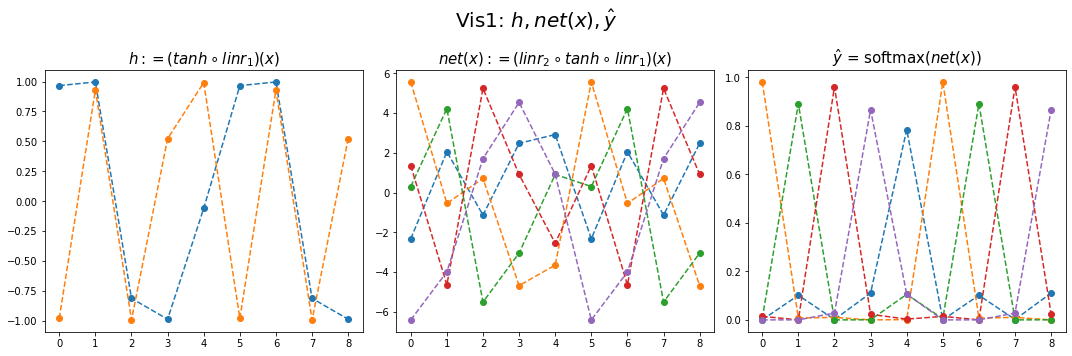
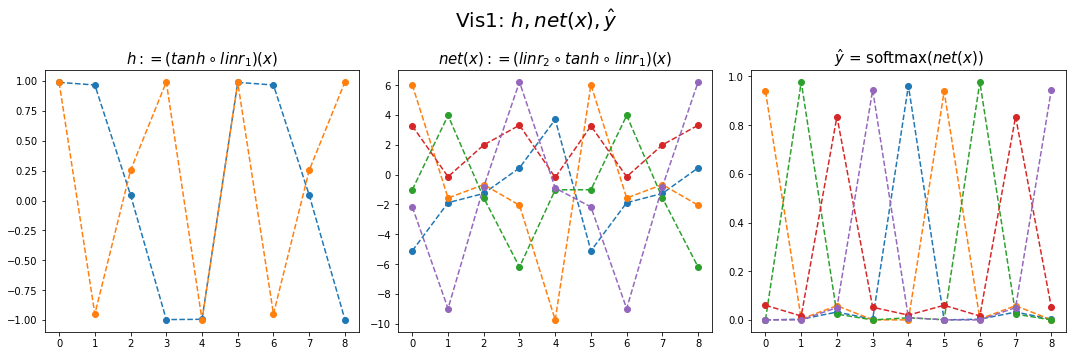
Built site for gh-pages

diff --git a/posts/RNN/2023-02-25-rnn2.html b/posts/RNN/2023-02-25-rnn2.html
@@ -1103,16 +1103,16 @@ code span.wa { color: #60a0b0; font-weight: bold; font-style: italic; } /* Warni
 <span id="cb83-5"><a href="#cb83-5"></a>)</span></code><button title="Copy to Clipboard" class="code-copy-button"><i class="bi"></i></button></pre></div>
 <section id="도전1-은닉노드-2개" class="level2">
 <h2 class="anchored" data-anchor-id="도전1-은닉노드-2개">도전1 (은닉노드 2개)</h2>
-<div class="cell" data-execution_count="145">
+<div class="cell" data-execution_count="157">
 <div class="sourceCode cell-code" id="cb84"><pre class="sourceCode numberSource python number-lines code-with-copy"><code class="sourceCode python"><span id="cb84-1"><a href="#cb84-1"></a>mapping <span class="op">=</span> {<span class="st">'a'</span>:<span class="dv">0</span>,<span class="st">'b'</span>:<span class="dv">1</span>,<span class="st">'c'</span>:<span class="dv">2</span>,<span class="st">'d'</span>:<span class="dv">3</span>,<span class="st">'e'</span>:<span class="dv">4</span>}</span>
 <span id="cb84-2"><a href="#cb84-2"></a>x <span class="op">=</span> torch.tensor(f(txt_x,mapping))</span>
 <span id="cb84-3"><a href="#cb84-3"></a>y <span class="op">=</span> torch.tensor(f(txt_y,mapping))</span>
 <span id="cb84-4"><a href="#cb84-4"></a>x[:<span class="dv">5</span>],y[:<span class="dv">5</span>]</span></code><button title="Copy to Clipboard" class="code-copy-button"><i class="bi"></i></button></pre></div>
-<div class="cell-output cell-output-display" data-execution_count="145">
+<div class="cell-output cell-output-display" data-execution_count="157">
 <pre><code>(tensor([0, 1, 2, 3, 4]), tensor([1, 2, 3, 4, 0]))</code></pre>
 </div>
 </div>
-<div class="cell" data-execution_count="146">
+<div class="cell" data-execution_count="158">
 <div class="sourceCode cell-code" id="cb86"><pre class="sourceCode numberSource python number-lines code-with-copy"><code class="sourceCode python"><span id="cb86-1"><a href="#cb86-1"></a>net <span class="op">=</span> torch.nn.Sequential(</span>
 <span id="cb86-2"><a href="#cb86-2"></a>    torch.nn.Embedding(num_embeddings<span class="op">=</span><span class="dv">5</span>,embedding_dim<span class="op">=</span><span class="dv">2</span>),</span>
 <span id="cb86-3"><a href="#cb86-3"></a>    torch.nn.Tanh(),</span>
@@ -1121,7 +1121,7 @@ code span.wa { color: #60a0b0; font-weight: bold; font-style: italic; } /* Warni
 <span id="cb86-6"><a href="#cb86-6"></a>loss_fn <span class="op">=</span> torch.nn.CrossEntropyLoss()</span>
 <span id="cb86-7"><a href="#cb86-7"></a>optimizr <span class="op">=</span> torch.optim.Adam(net.parameters())</span></code><button title="Copy to Clipboard" class="code-copy-button"><i class="bi"></i></button></pre></div>
 </div>
-<div class="cell" data-execution_count="147">
+<div class="cell" data-execution_count="159">
 <div class="sourceCode cell-code" id="cb87"><pre class="sourceCode numberSource python number-lines code-with-copy"><code class="sourceCode python"><span id="cb87-1"><a href="#cb87-1"></a><span class="cf">for</span> epoc <span class="kw">in</span> <span class="bu">range</span>(<span class="dv">5000</span>):</span>
 <span id="cb87-2"><a href="#cb87-2"></a>    <span class="co">## 1</span></span>
 <span id="cb87-3"><a href="#cb87-3"></a>    yhat <span class="op">=</span> net(x)</span>
@@ -1135,11 +1135,11 @@ code span.wa { color: #60a0b0; font-weight: bold; font-style: italic; } /* Warni
 </div>
 <section id="결과시각화1-3" class="level3">
 <h3 class="anchored" data-anchor-id="결과시각화1-3"><code>-</code> 결과시각화1</h3>
-<div class="cell" data-execution_count="148">
+<div class="cell" data-execution_count="160">
 <div class="sourceCode cell-code" id="cb88"><pre class="sourceCode numberSource python number-lines code-with-copy"><code class="sourceCode python"><span id="cb88-1"><a href="#cb88-1"></a>hidden <span class="op">=</span> net[:<span class="op">-</span><span class="dv">1</span>](x).data</span>
 <span id="cb88-2"><a href="#cb88-2"></a>yhat <span class="op">=</span> soft(net(x)).data</span></code><button title="Copy to Clipboard" class="code-copy-button"><i class="bi"></i></button></pre></div>
 </div>
-<div class="cell" data-execution_count="149">
+<div class="cell" data-execution_count="161">
 <div class="sourceCode cell-code" id="cb89"><pre class="sourceCode numberSource python number-lines code-with-copy"><code class="sourceCode python"><span id="cb89-1"><a href="#cb89-1"></a>fig,ax <span class="op">=</span> plt.subplots(<span class="dv">1</span>,<span class="dv">3</span>,figsize<span class="op">=</span>(<span class="dv">15</span>,<span class="dv">5</span>))</span>
 <span id="cb89-2"><a href="#cb89-2"></a>ax[<span class="dv">0</span>].plot(hidden[:<span class="dv">9</span>],<span class="st">'--o'</span>)<span class="op">;</span> ax[<span class="dv">0</span>].set_title(<span class="st">'$h:=(tanh \circ linr_1)(x)$'</span>,size<span class="op">=</span><span class="dv">15</span>)</span>
 <span id="cb89-3"><a href="#cb89-3"></a>ax[<span class="dv">1</span>].plot(net(x).data[:<span class="dv">9</span>],<span class="st">'--o'</span>)<span class="op">;</span> ax[<span class="dv">1</span>].set_title(<span class="st">'$net(x):=(linr_2 \circ tanh \circ linr_1)(x)$'</span>,size<span class="op">=</span><span class="dv">15</span>)</span>
@@ -1153,21 +1153,21 @@ code span.wa { color: #60a0b0; font-weight: bold; font-style: italic; } /* Warni
 </section>
 <section id="결과시각화2-4" class="level3">
 <h3 class="anchored" data-anchor-id="결과시각화2-4"><code>-</code> 결과시각화2</h3>
-<div class="cell" data-execution_count="139">
+<div class="cell" data-execution_count="162">
 <div class="sourceCode cell-code" id="cb90"><pre class="sourceCode numberSource python number-lines code-with-copy"><code class="sourceCode python"><span id="cb90-1"><a href="#cb90-1"></a>combined  <span class="op">=</span> torch.concat([hidden,net(x).data,yhat],axis<span class="op">=</span><span class="dv">1</span>)</span>
 <span id="cb90-2"><a href="#cb90-2"></a>combined.shape</span></code><button title="Copy to Clipboard" class="code-copy-button"><i class="bi"></i></button></pre></div>
-<div class="cell-output cell-output-display" data-execution_count="139">
-<pre><code>torch.Size([599, 12])</code></pre>
+<div class="cell-output cell-output-display" data-execution_count="162">
+<pre><code>torch.Size([499, 12])</code></pre>
 </div>
 </div>
-<div class="cell" data-execution_count="140">
+<div class="cell" data-execution_count="163">
 <div class="sourceCode cell-code" id="cb92"><pre class="sourceCode numberSource python number-lines code-with-copy"><code class="sourceCode python"><span id="cb92-1"><a href="#cb92-1"></a>plt.matshow(combined[:<span class="dv">15</span>],vmin<span class="op">=-</span><span class="dv">7</span>,vmax<span class="op">=</span><span class="dv">7</span>,cmap<span class="op">=</span><span class="st">'bwr'</span>)</span>
 <span id="cb92-2"><a href="#cb92-2"></a>plt.xticks(<span class="bu">range</span>(<span class="dv">12</span>), labels<span class="op">=</span>[<span class="vs">r'$h$'</span>,<span class="vs">r'$h$'</span>,<span class="vs">r'$y=a?$'</span>,<span class="vs">r'$y=b?$'</span>,<span class="vs">r'$y=c?$'</span>,<span class="vs">r'$y=d?$'</span>, <span class="vs">r'$y=e?$'</span>,<span class="vs">r'$P(y=a)$'</span>,<span class="vs">r'$P(y=b)$'</span>,<span class="vs">r'$P(y=c)$'</span>,<span class="vs">r'$P(y=d)$'</span>,<span class="vs">r'$P(y=e)$'</span>],size<span class="op">=</span><span class="dv">14</span>)</span>
 <span id="cb92-3"><a href="#cb92-3"></a>plt.colorbar()</span>
 <span id="cb92-4"><a href="#cb92-4"></a>plt.gcf().set_figwidth(<span class="dv">15</span>)</span>
 <span id="cb92-5"><a href="#cb92-5"></a>plt.gcf().set_figheight(<span class="dv">15</span>)</span>
 <span id="cb92-6"><a href="#cb92-6"></a>plt.title(<span class="vs">r"Vis2: $[h | net(x) | \hat</span><span class="sc">{y}</span><span class="vs">]$"</span>,size<span class="op">=</span><span class="dv">25</span>)</span></code><button title="Copy to Clipboard" class="code-copy-button"><i class="bi"></i></button></pre></div>
-<div class="cell-output cell-output-display" data-execution_count="140">
+<div class="cell-output cell-output-display" data-execution_count="163">
 <pre><code>Text(0.5, 1.0, 'Vis2: $[h | net(x) | \\hat{y}]$')</code></pre>
 </div>
 <div class="cell-output cell-output-display">
@@ -1181,47 +1181,80 @@ code span.wa { color: #60a0b0; font-weight: bold; font-style: italic; } /* Warni
 </section>
 <section id="도전2-은닉노드-3개" class="level2">
 <h2 class="anchored" data-anchor-id="도전2-은닉노드-3개">도전2 ( 은닉노드 3개)</h2>
-<div class="cell" data-execution_count="141">
-<div class="sourceCode cell-code" id="cb94"><pre class="sourceCode numberSource python number-lines code-with-copy"><code class="sourceCode python"><span id="cb94-1"><a href="#cb94-1"></a>net <span class="op">=</span> torch.nn.Sequential(</span>
-<span id="cb94-2"><a href="#cb94-2"></a>    torch.nn.Embedding(num_embeddings<span class="op">=</span><span class="dv">5</span>,embedding_dim<span class="op">=</span><span class="dv">3</span>),</span>
-<span id="cb94-3"><a href="#cb94-3"></a>    torch.nn.Tanh(),</span>
-<span id="cb94-4"><a href="#cb94-4"></a>    torch.nn.Linear(in_features<span class="op">=</span><span class="dv">3</span>,out_features<span class="op">=</span><span class="dv">5</span>)</span>
-<span id="cb94-5"><a href="#cb94-5"></a>)</span>
-<span id="cb94-6"><a href="#cb94-6"></a>loss_fn <span class="op">=</span> torch.nn.CrossEntropyLoss()</span>
-<span id="cb94-7"><a href="#cb94-7"></a>optimizr <span class="op">=</span> torch.optim.Adam(net.parameters())</span></code><button title="Copy to Clipboard" class="code-copy-button"><i class="bi"></i></button></pre></div>
+<div class="cell" data-execution_count="164">
+<div class="sourceCode cell-code" id="cb94"><pre class="sourceCode numberSource python number-lines code-with-copy"><code class="sourceCode python"><span id="cb94-1"><a href="#cb94-1"></a>mapping <span class="op">=</span> {<span class="st">'a'</span>:<span class="dv">0</span>,<span class="st">'b'</span>:<span class="dv">1</span>,<span class="st">'c'</span>:<span class="dv">2</span>,<span class="st">'d'</span>:<span class="dv">3</span>,<span class="st">'e'</span>:<span class="dv">4</span>}</span>
+<span id="cb94-2"><a href="#cb94-2"></a>x <span class="op">=</span> torch.tensor(f(txt_x,mapping))</span>
+<span id="cb94-3"><a href="#cb94-3"></a>y <span class="op">=</span> torch.tensor(f(txt_y,mapping))</span>
+<span id="cb94-4"><a href="#cb94-4"></a>x[:<span class="dv">5</span>],y[:<span class="dv">5</span>]</span></code><button title="Copy to Clipboard" class="code-copy-button"><i class="bi"></i></button></pre></div>
+<div class="cell-output cell-output-display" data-execution_count="164">
+<pre><code>(tensor([0, 1, 2, 3, 4]), tensor([1, 2, 3, 4, 0]))</code></pre>
 </div>
-<div class="cell" data-execution_count="142">
-<div class="sourceCode cell-code" id="cb95"><pre class="sourceCode numberSource python number-lines code-with-copy"><code class="sourceCode python"><span id="cb95-1"><a href="#cb95-1"></a><span class="cf">for</span> epoc <span class="kw">in</span> <span class="bu">range</span>(<span class="dv">5000</span>):</span>
-<span id="cb95-2"><a href="#cb95-2"></a>    <span class="co">## 1</span></span>
-<span id="cb95-3"><a href="#cb95-3"></a>    yhat <span class="op">=</span> net(x)</span>
-<span id="cb95-4"><a href="#cb95-4"></a>    <span class="co">## 2</span></span>
-<span id="cb95-5"><a href="#cb95-5"></a>    loss <span class="op">=</span> loss_fn(yhat,y)</span>
-<span id="cb95-6"><a href="#cb95-6"></a>    <span class="co">## 3</span></span>
-<span id="cb95-7"><a href="#cb95-7"></a>    loss.backward()</span>
-<span id="cb95-8"><a href="#cb95-8"></a>    <span class="co">## 4</span></span>
-<span id="cb95-9"><a href="#cb95-9"></a>    optimizr.step()</span>
-<span id="cb95-10"><a href="#cb95-10"></a>    optimizr.zero_grad()</span></code><button title="Copy to Clipboard" class="code-copy-button"><i class="bi"></i></button></pre></div>
+</div>
+<div class="cell" data-execution_count="165">
+<div class="sourceCode cell-code" id="cb96"><pre class="sourceCode numberSource python number-lines code-with-copy"><code class="sourceCode python"><span id="cb96-1"><a href="#cb96-1"></a>net <span class="op">=</span> torch.nn.Sequential(</span>
+<span id="cb96-2"><a href="#cb96-2"></a>    torch.nn.Embedding(num_embeddings<span class="op">=</span><span class="dv">5</span>,embedding_dim<span class="op">=</span><span class="dv">3</span>),</span>
+<span id="cb96-3"><a href="#cb96-3"></a>    torch.nn.Tanh(),</span>
+<span id="cb96-4"><a href="#cb96-4"></a>    torch.nn.Linear(in_features<span class="op">=</span><span class="dv">3</span>,out_features<span class="op">=</span><span class="dv">5</span>)</span>
+<span id="cb96-5"><a href="#cb96-5"></a>)</span>
+<span id="cb96-6"><a href="#cb96-6"></a>loss_fn <span class="op">=</span> torch.nn.CrossEntropyLoss()</span>
+<span id="cb96-7"><a href="#cb96-7"></a>optimizr <span class="op">=</span> torch.optim.Adam(net.parameters())</span></code><button title="Copy to Clipboard" class="code-copy-button"><i class="bi"></i></button></pre></div>
+</div>
+<div class="cell" data-execution_count="166">
+<div class="sourceCode cell-code" id="cb97"><pre class="sourceCode numberSource python number-lines code-with-copy"><code class="sourceCode python"><span id="cb97-1"><a href="#cb97-1"></a><span class="cf">for</span> epoc <span class="kw">in</span> <span class="bu">range</span>(<span class="dv">5000</span>):</span>
+<span id="cb97-2"><a href="#cb97-2"></a>    <span class="co">## 1</span></span>
+<span id="cb97-3"><a href="#cb97-3"></a>    yhat <span class="op">=</span> net(x)</span>
+<span id="cb97-4"><a href="#cb97-4"></a>    <span class="co">## 2</span></span>
+<span id="cb97-5"><a href="#cb97-5"></a>    loss <span class="op">=</span> loss_fn(yhat,y)</span>
+<span id="cb97-6"><a href="#cb97-6"></a>    <span class="co">## 3</span></span>
+<span id="cb97-7"><a href="#cb97-7"></a>    loss.backward()</span>
+<span id="cb97-8"><a href="#cb97-8"></a>    <span class="co">## 4</span></span>
+<span id="cb97-9"><a href="#cb97-9"></a>    optimizr.step()</span>
+<span id="cb97-10"><a href="#cb97-10"></a>    optimizr.zero_grad()</span></code><button title="Copy to Clipboard" class="code-copy-button"><i class="bi"></i></button></pre></div>
 </div>
 <section id="결과시각화1-4" class="level3">
 <h3 class="anchored" data-anchor-id="결과시각화1-4"><code>-</code> 결과시각화1</h3>
-<div class="cell" data-execution_count="143">
-<div class="sourceCode cell-code" id="cb96"><pre class="sourceCode numberSource python number-lines code-with-copy"><code class="sourceCode python"><span id="cb96-1"><a href="#cb96-1"></a>hidden <span class="op">=</span> net[:<span class="op">-</span><span class="dv">1</span>](x).data</span>
-<span id="cb96-2"><a href="#cb96-2"></a>yhat <span class="op">=</span> soft(net(x)).data</span></code><button title="Copy to Clipboard" class="code-copy-button"><i class="bi"></i></button></pre></div>
+<div class="cell" data-execution_count="167">
+<div class="sourceCode cell-code" id="cb98"><pre class="sourceCode numberSource python number-lines code-with-copy"><code class="sourceCode python"><span id="cb98-1"><a href="#cb98-1"></a>hidden <span class="op">=</span> net[:<span class="op">-</span><span class="dv">1</span>](x).data</span>
+<span id="cb98-2"><a href="#cb98-2"></a>yhat <span class="op">=</span> soft(net(x)).data</span></code><button title="Copy to Clipboard" class="code-copy-button"><i class="bi"></i></button></pre></div>
 </div>
-<div class="cell" data-execution_count="144">
-<div class="sourceCode cell-code" id="cb97"><pre class="sourceCode numberSource python number-lines code-with-copy"><code class="sourceCode python"><span id="cb97-1"><a href="#cb97-1"></a>fig,ax <span class="op">=</span> plt.subplots(<span class="dv">1</span>,<span class="dv">3</span>,figsize<span class="op">=</span>(<span class="dv">15</span>,<span class="dv">5</span>))</span>
-<span id="cb97-2"><a href="#cb97-2"></a>ax[<span class="dv">0</span>].plot(hidden[:<span class="dv">9</span>],<span class="st">'--o'</span>)<span class="op">;</span> ax[<span class="dv">0</span>].set_title(<span class="st">'$h:=(tanh \circ linr_1)(x)$'</span>,size<span class="op">=</span><span class="dv">15</span>)</span>
-<span id="cb97-3"><a href="#cb97-3"></a>ax[<span class="dv">1</span>].plot(net(x).data[:<span class="dv">9</span>],<span class="st">'--o'</span>)<span class="op">;</span> ax[<span class="dv">1</span>].set_title(<span class="st">'$net(x):=(linr_2 \circ tanh \circ linr_1)(x)$'</span>,size<span class="op">=</span><span class="dv">15</span>)</span>
-<span id="cb97-4"><a href="#cb97-4"></a>ax[<span class="dv">2</span>].plot(yhat[:<span class="dv">9</span>],<span class="st">'--o'</span>)<span class="op">;</span> ax[<span class="dv">2</span>].set_title(<span class="st">'$\hat</span><span class="sc">{y}</span><span class="st">$ = softmax$(net(x))$'</span>,size<span class="op">=</span><span class="dv">15</span>)<span class="op">;</span></span>
-<span id="cb97-5"><a href="#cb97-5"></a>fig.suptitle(<span class="vs">r"Vis1: $h,net(x),\hat</span><span class="sc">{y}</span><span class="vs">$"</span>,size<span class="op">=</span><span class="dv">20</span>)</span>
-<span id="cb97-6"><a href="#cb97-6"></a>plt.tight_layout()</span></code><button title="Copy to Clipboard" class="code-copy-button"><i class="bi"></i></button></pre></div>
+<div class="cell" data-execution_count="168">
+<div class="sourceCode cell-code" id="cb99"><pre class="sourceCode numberSource python number-lines code-with-copy"><code class="sourceCode python"><span id="cb99-1"><a href="#cb99-1"></a>fig,ax <span class="op">=</span> plt.subplots(<span class="dv">1</span>,<span class="dv">3</span>,figsize<span class="op">=</span>(<span class="dv">15</span>,<span class="dv">5</span>))</span>
+<span id="cb99-2"><a href="#cb99-2"></a>ax[<span class="dv">0</span>].plot(hidden[:<span class="dv">9</span>],<span class="st">'--o'</span>)<span class="op">;</span> ax[<span class="dv">0</span>].set_title(<span class="st">'$h:=(tanh \circ linr_1)(x)$'</span>,size<span class="op">=</span><span class="dv">15</span>)</span>
+<span id="cb99-3"><a href="#cb99-3"></a>ax[<span class="dv">1</span>].plot(net(x).data[:<span class="dv">9</span>],<span class="st">'--o'</span>)<span class="op">;</span> ax[<span class="dv">1</span>].set_title(<span class="st">'$net(x):=(linr_2 \circ tanh \circ linr_1)(x)$'</span>,size<span class="op">=</span><span class="dv">15</span>)</span>
+<span id="cb99-4"><a href="#cb99-4"></a>ax[<span class="dv">2</span>].plot(yhat[:<span class="dv">9</span>],<span class="st">'--o'</span>)<span class="op">;</span> ax[<span class="dv">2</span>].set_title(<span class="st">'$\hat</span><span class="sc">{y}</span><span class="st">$ = softmax$(net(x))$'</span>,size<span class="op">=</span><span class="dv">15</span>)<span class="op">;</span></span>
+<span id="cb99-5"><a href="#cb99-5"></a>fig.suptitle(<span class="vs">r"Vis1: $h,net(x),\hat</span><span class="sc">{y}</span><span class="vs">$"</span>,size<span class="op">=</span><span class="dv">20</span>)</span>
+<span id="cb99-6"><a href="#cb99-6"></a>plt.tight_layout()</span></code><button title="Copy to Clipboard" class="code-copy-button"><i class="bi"></i></button></pre></div>
 <div class="cell-output cell-output-display">
-<p><img src="2023-02-25-rnn2_files/figure-html/cell-66-output-1.png" class="img-fluid"></p>
+<p><img src="2023-02-25-rnn2_files/figure-html/cell-67-output-1.png" class="img-fluid"></p>
 </div>
 </div>
 </section>
 <section id="결과시각화2-5" class="level3">
 <h3 class="anchored" data-anchor-id="결과시각화2-5"><code>-</code> 결과시각화2</h3>
+<div class="cell" data-execution_count="169">
+<div class="sourceCode cell-code" id="cb100"><pre class="sourceCode numberSource python number-lines code-with-copy"><code class="sourceCode python"><span id="cb100-1"><a href="#cb100-1"></a>combined  <span class="op">=</span> torch.concat([hidden,net(x).data,yhat],axis<span class="op">=</span><span class="dv">1</span>)</span>
+<span id="cb100-2"><a href="#cb100-2"></a>combined.shape</span></code><button title="Copy to Clipboard" class="code-copy-button"><i class="bi"></i></button></pre></div>
+<div class="cell-output cell-output-display" data-execution_count="169">
+<pre><code>torch.Size([499, 13])</code></pre>
+</div>
+</div>
+<div class="cell" data-execution_count="170">
+<div class="sourceCode cell-code" id="cb102"><pre class="sourceCode numberSource python number-lines code-with-copy"><code class="sourceCode python"><span id="cb102-1"><a href="#cb102-1"></a>plt.matshow(combined[:<span class="dv">15</span>],vmin<span class="op">=-</span><span class="dv">5</span>,vmax<span class="op">=</span><span class="dv">5</span>,cmap<span class="op">=</span><span class="st">'bwr'</span>)</span>
+<span id="cb102-2"><a href="#cb102-2"></a>plt.xticks(<span class="bu">range</span>(<span class="dv">13</span>), labels<span class="op">=</span>[<span class="vs">r'$h$'</span>,<span class="vs">r'$h$'</span>,<span class="vs">r'$h$'</span>,</span>
+<span id="cb102-3"><a href="#cb102-3"></a>                              <span class="vs">r'$y=A?$'</span>,<span class="vs">r'$y=b?$'</span>,<span class="vs">r'$y=c?$'</span>,<span class="vs">r'$y=d?$'</span>,<span class="vs">r'$y=e?$'</span>,</span>
+<span id="cb102-4"><a href="#cb102-4"></a>                              <span class="vs">r'$P(y=A)$'</span>,<span class="vs">r'$P(y=b)$'</span>,<span class="vs">r'$P(y=c)$'</span>,<span class="vs">r'$P(y=d)$'</span>,<span class="vs">r'$P(y=e)$'</span>],size<span class="op">=</span><span class="dv">13</span>)</span>
+<span id="cb102-5"><a href="#cb102-5"></a>plt.colorbar()</span>
+<span id="cb102-6"><a href="#cb102-6"></a>plt.gcf().set_figwidth(<span class="dv">15</span>)</span>
+<span id="cb102-7"><a href="#cb102-7"></a>plt.gcf().set_figheight(<span class="dv">15</span>)</span>
+<span id="cb102-8"><a href="#cb102-8"></a>plt.title(<span class="vs">r"Vis2: $[h | net(x) | \hat</span><span class="sc">{y}</span><span class="vs">]$"</span>,size<span class="op">=</span><span class="dv">25</span>)</span></code><button title="Copy to Clipboard" class="code-copy-button"><i class="bi"></i></button></pre></div>
+<div class="cell-output cell-output-display" data-execution_count="170">
+<pre><code>Text(0.5, 1.0, 'Vis2: $[h | net(x) | \\hat{y}]$')</code></pre>
+</div>
+<div class="cell-output cell-output-display">
+<p><img src="2023-02-25-rnn2_files/figure-html/cell-69-output-2.png" class="img-fluid"></p>
+</div>
+</div>
+<p>a,b,c,d,e를 표현함에 있어서 3개의 은닉노드면 충분하다. - 1개의 은닉노드 <span class="math inline">\(\to\)</span> 2개의 문자를 표현할 수 있음 - 2개의 은닉노드 <span class="math inline">\(\to\)</span> 4개의 문자를 표현할 수 있음 - 3개의 은닉노드 <span class="math inline">\(\to\)</span> 8개의 문자를 표현할 수 있음</p>
 
 
 </section>

diff --git a/index.html b/index.html
@@ -365,7 +365,7 @@ Chap 8.3: Discrete Fourier Transform
 </a>
 </div>
 </div>
-<div class="quarto-post image-right" data-index="1" data-categories="DL2022,RNN" data-listing-date-sort="1677250800000" data-listing-file-modified-sort="1677408311703" data-listing-reading-time-sort="3.455">
+<div class="quarto-post image-right" data-index="1" data-categories="DL2022,RNN" data-listing-date-sort="1677250800000" data-listing-file-modified-sort="1677410102970" data-listing-reading-time-sort="3.6">
 <div class="thumbnail">
 <p><a href="./posts/RNN/2023-02-25-rnn2.html"> <img src="./posts/RNN/attachment:b3f1fda4-80d1-48dd-b602-bf1dbf03d6b6.png" class="thumnail-image"> </a></p>
 </div>
